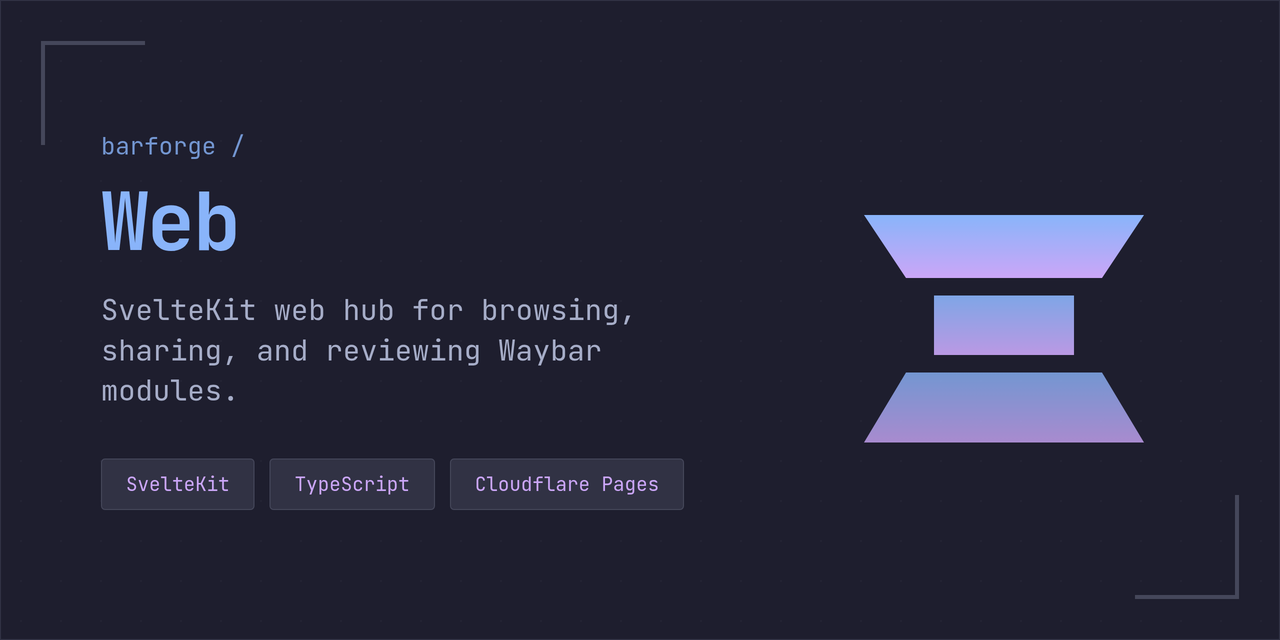
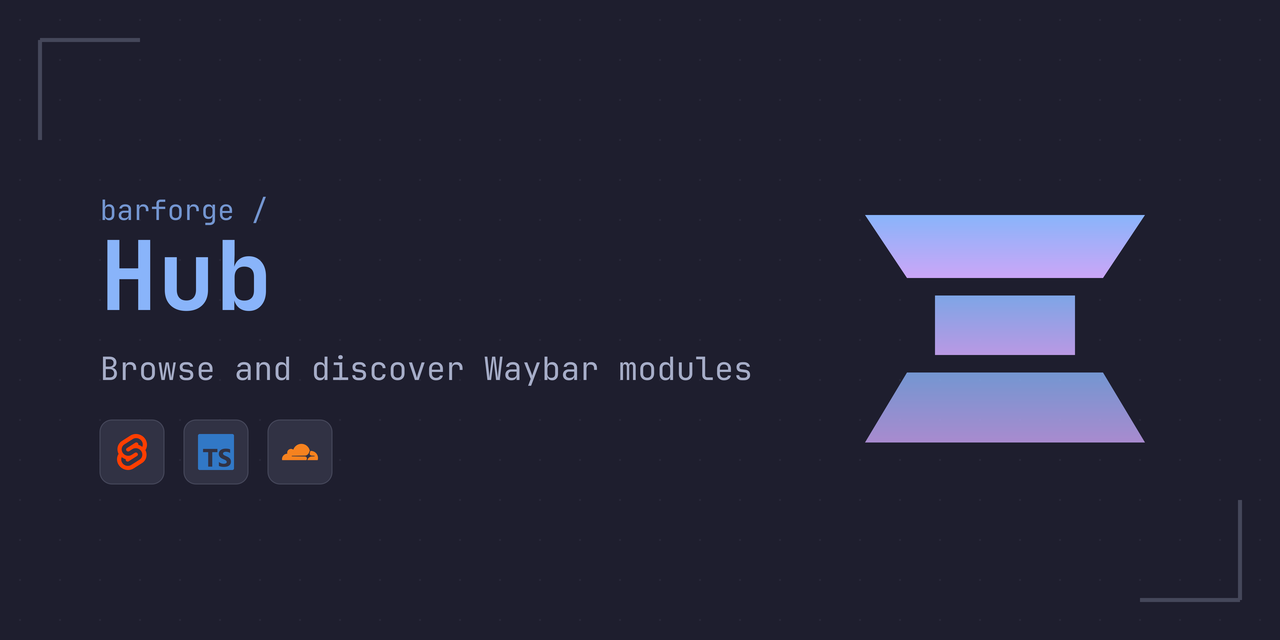
feat: update OG image and README branding (#41)
* feat: update OG image and README branding

- Update README description to Barforge Hub
- Add new OG image with Svelte, TypeScript, Cloudflare icons
- Add Iced logo SVG for ecosystem page

* chore: auto-format

diff --git a/README.md b/README.md
@@ -3,7 +3,7 @@
 </p>
 
 <p align="center">
-  <b>Web frontend for Barforge, the Waybar modules marketplace.</b>
+  <b>Barforge Hub — Browse and discover Waybar modules</b>
 </p>
 
 <p align="center">
@@ -81,10 +81,6 @@ wrangler pages deploy .svelte-kit/cloudflare
 
 ## Related
 
-| Project                                                  | Description                                     |
-| -------------------------------------------------------- | ----------------------------------------------- |
-| [barforge-app](https://github.com/jtaw5649/barforge-app) | Desktop application for managing Waybar modules |
-
-## License
-
-GPL-3.0 — See [LICENSE](LICENSE) for details.
+| Project                                                  | Description                                         |
+| -------------------------------------------------------- | --------------------------------------------------- |
+| [barforge-app](https://github.com/jtaw5649/barforge-app) | Barforge App — Install and configure Waybar modules |
